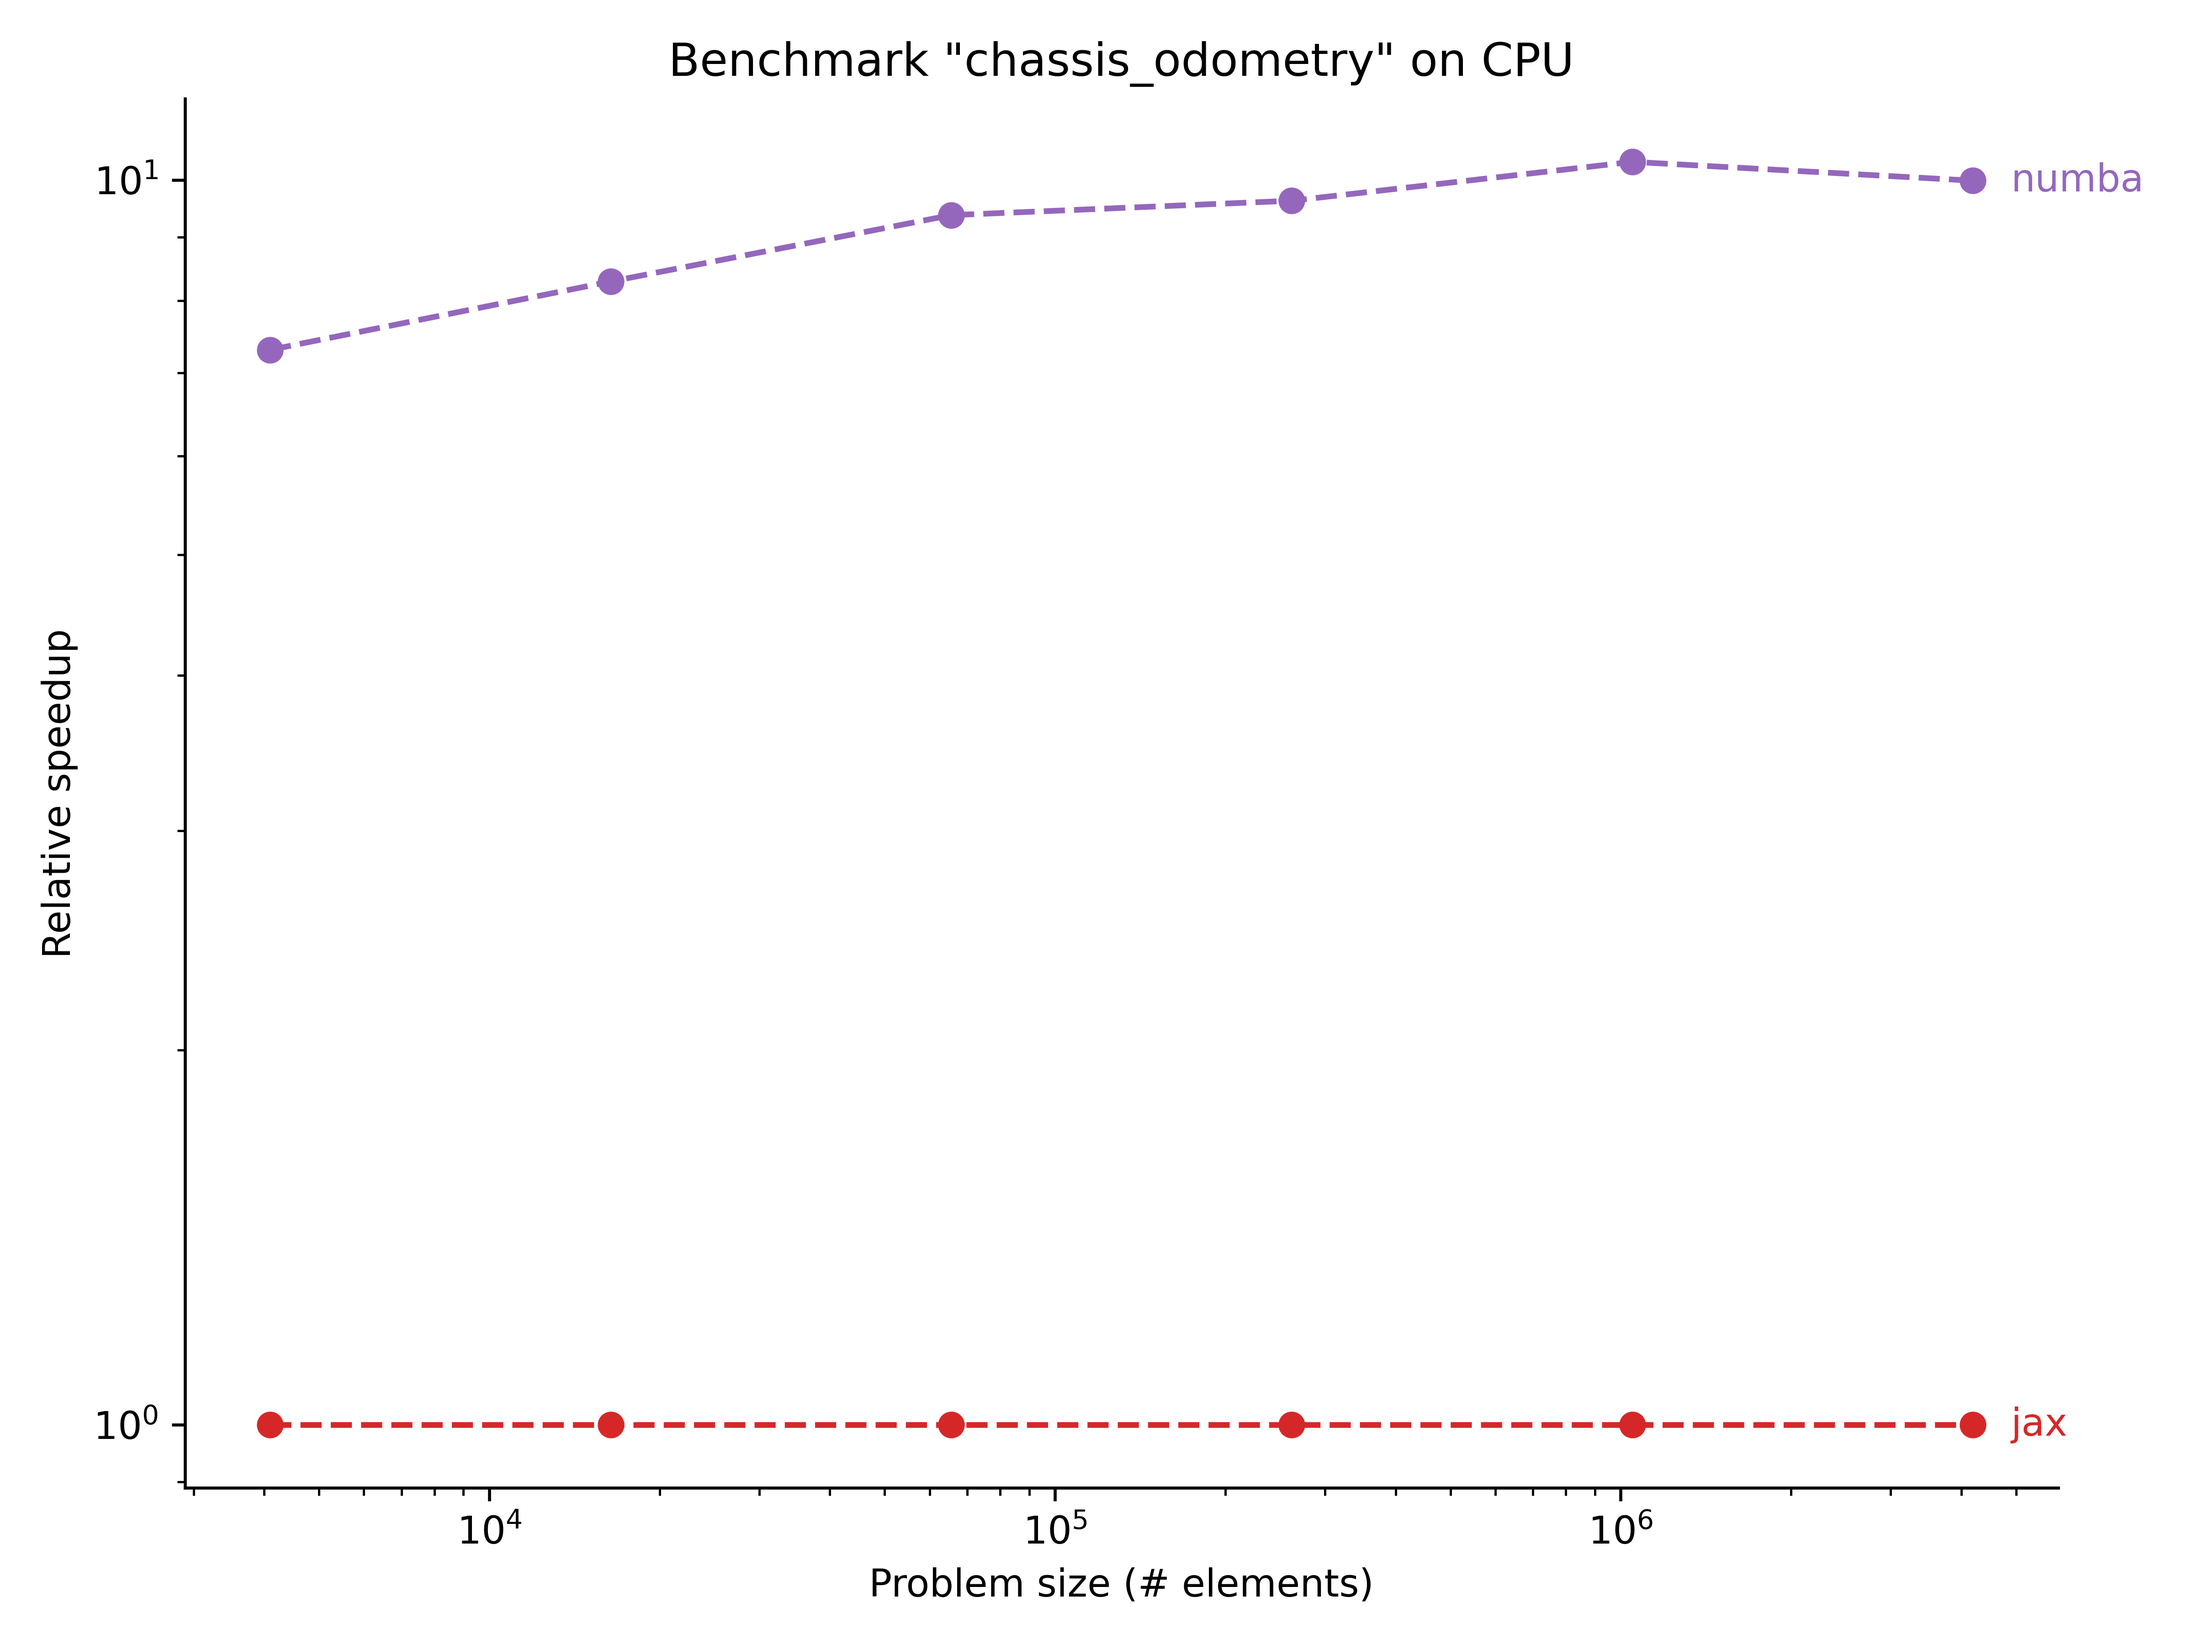
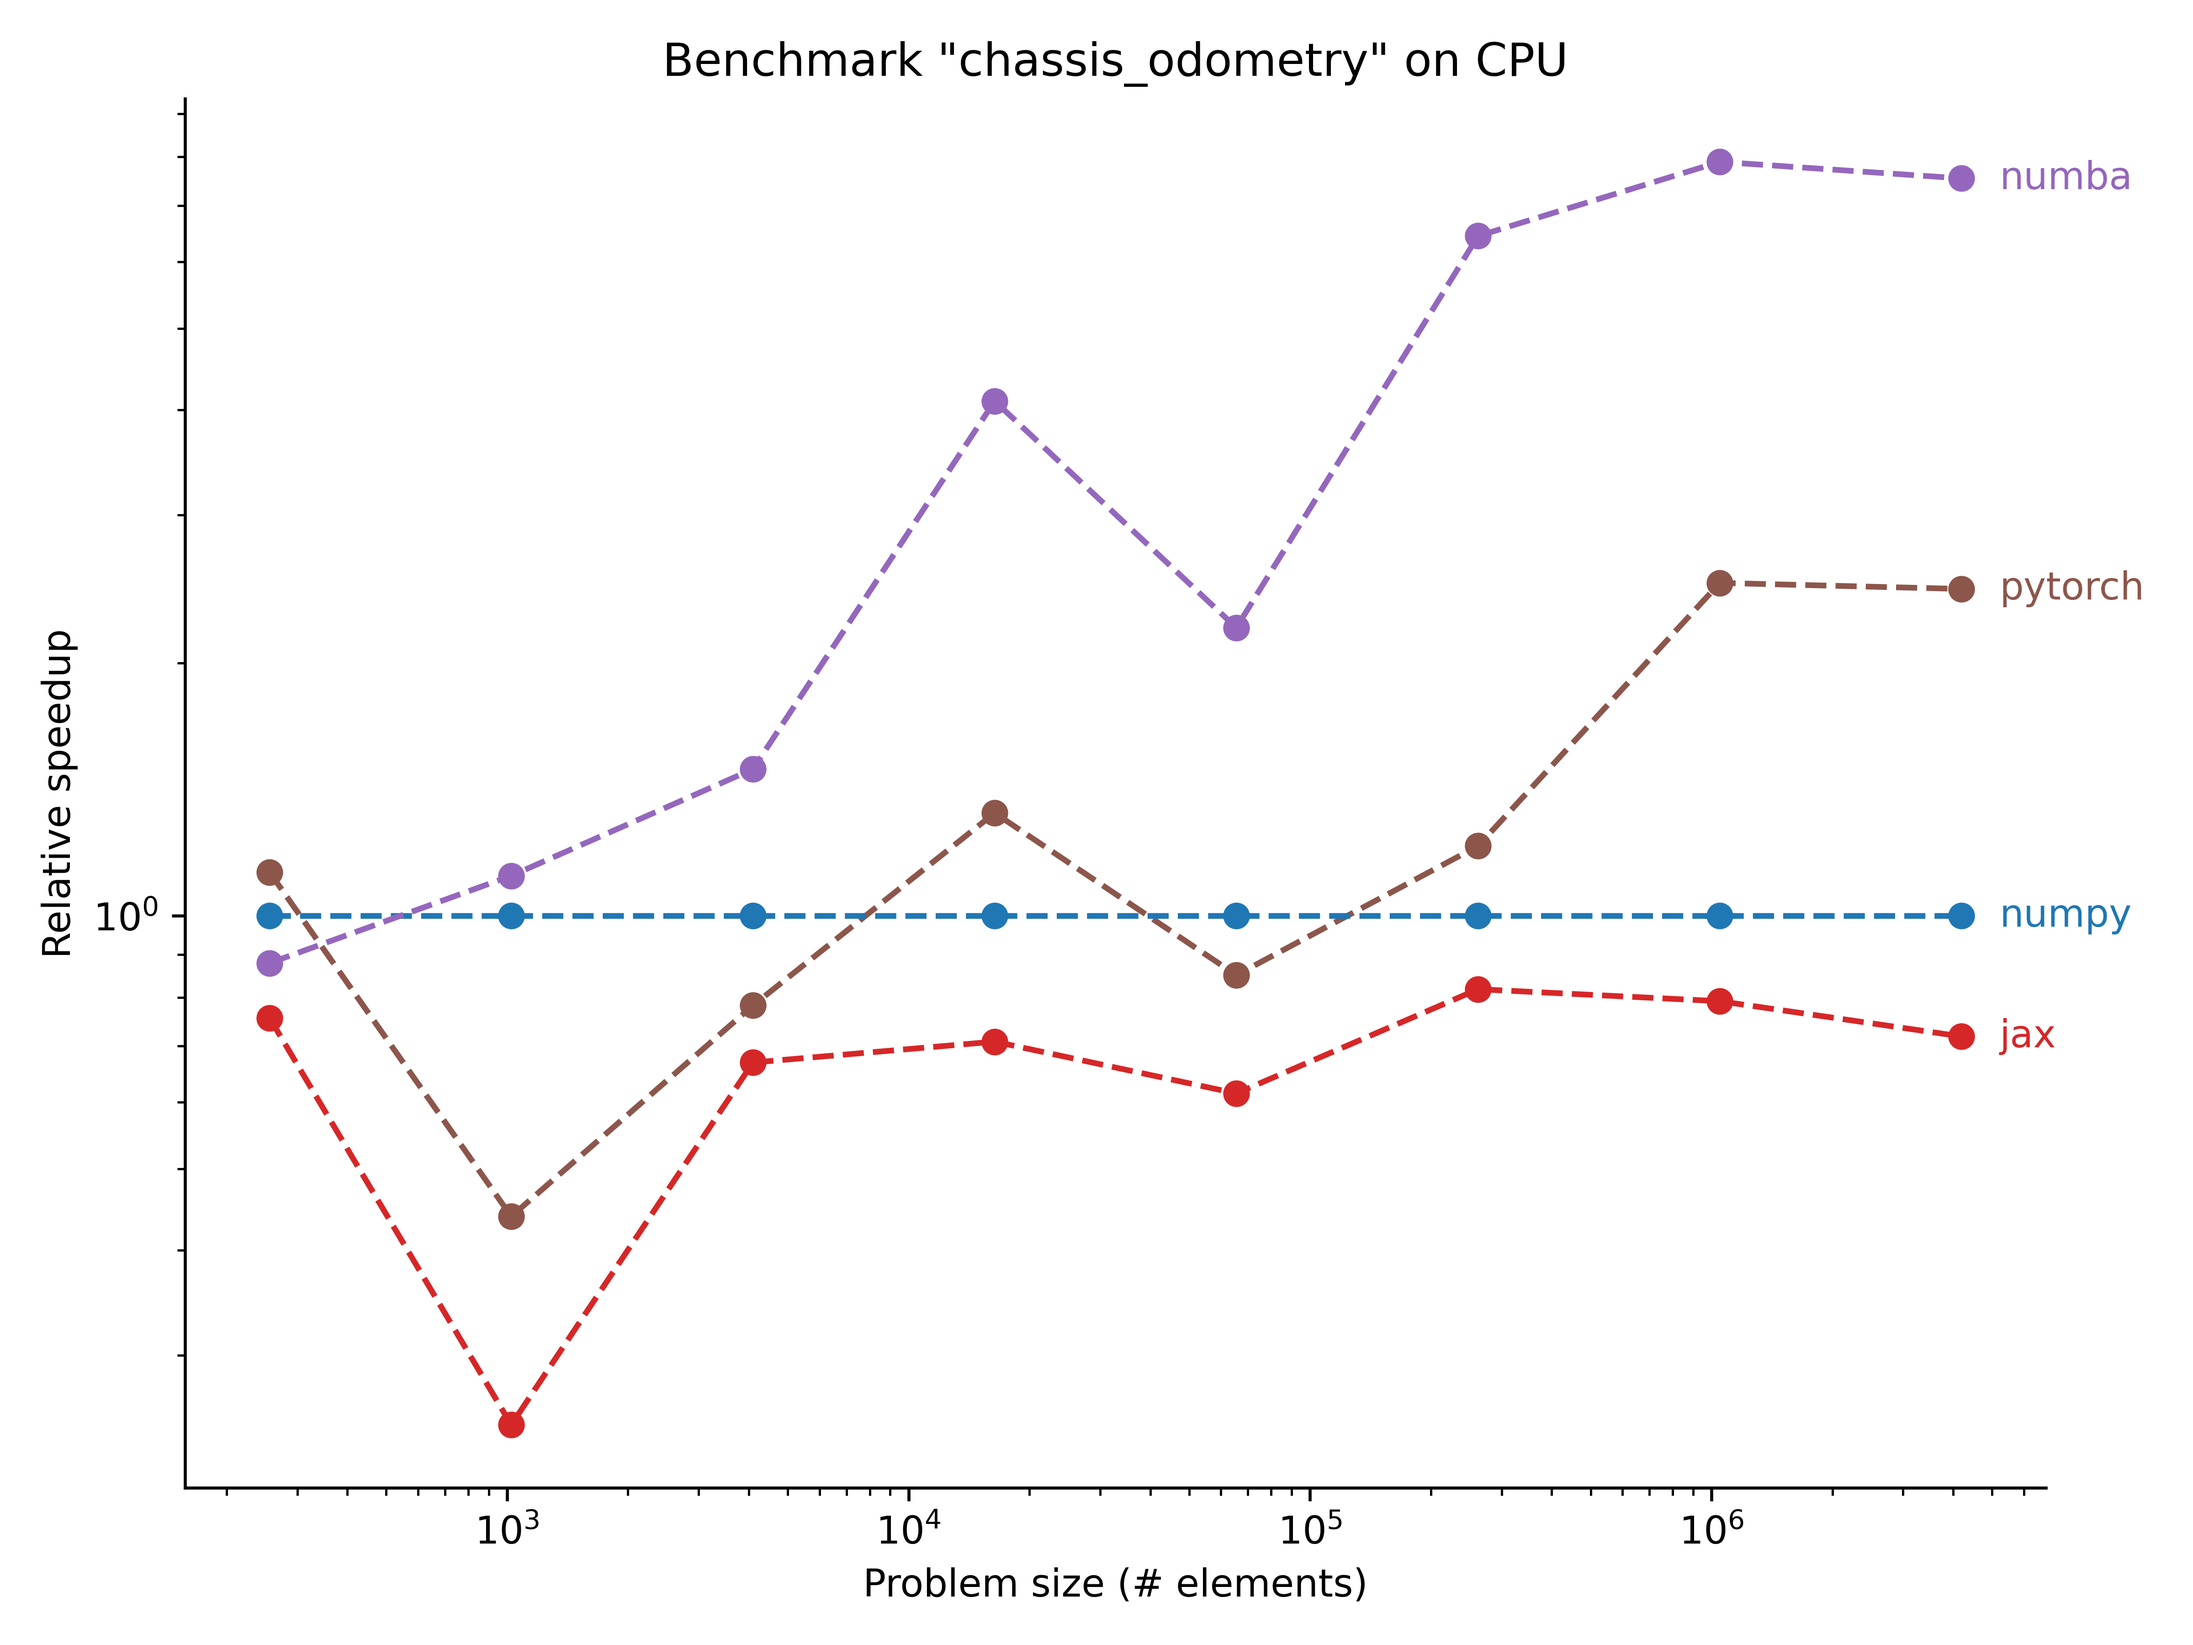
It ran the full benchmark for chasis sodom

diff --git a/benchmarks/chassis_odometry/chassis_odometry_jax.py b/benchmarks/chassis_odometry/chassis_odometry_jax.py
@@ -1,5 +1,5 @@
 import jax
-import jax.numpy as np
+import jax.numpy as jnp
 
 # Constants for indexing
 X = 0
@@ -8,47 +8,41 @@ Y = 1
 
 @jax.jit
 def chassis_odom_update(
-    particles: np.ndarray,
-    odometry: np.ndarray,
-    noise: np.ndarray,
+    particles: jnp.ndarray,
+    odometry: jnp.ndarray,
+    noise_std: jnp.ndarray,
     max_height: float,
     max_width: float,
     key: jax.random.PRNGKey,
-) -> np.ndarray:
-    N = particles.shape[0]
+) -> jnp.ndarray:
+    # Split key only once
+    key, subkey = jax.random.split(key)
     
-    x_delta = odometry[0]
-    y_delta = odometry[1]
-    x_std = noise[0]
-    y_std = noise[1]
-    
-    # Generate noise for all particles at once
-    key_x, key_y = jax.random.split(key)
-    random_noise_x = jax.random.normal(key_x, shape=(N,)) * x_std
-    random_noise_y = jax.random.normal(key_y, shape=(N,)) * y_std
-    
-    # Vectorized update
-    new_particles = particles.at[:, X].add(x_delta + random_noise_x)
-    new_particles = new_particles.at[:, Y].add(y_delta + random_noise_y)
-    
-    # Vectorized clipping
-    new_particles = new_particles.at[:, X].set(
-        np.clip(new_particles[:, X], 0, max_height)
-    )
-    new_particles = new_particles.at[:, Y].set(
-        np.clip(new_particles[:, Y], 0, max_width)
-    )
-    
-    return new_particles
+    # Draw 2-D Gaussian noise in one shot
+    # shape = (N,2), stds broadcast across rows
+    noise = jax.random.normal(subkey, shape=particles.shape) * noise_std
+
+    # Broadcast odometry [2] to [N,2]
+    delta = odometry  # shape (2,) will broadcast
+
+    # Single fused update + clamp
+    updated = particles + delta + noise
+
+    # Clip each column
+    # Note: jnp.clip is elementwise, but this is still one XLA fusion group
+    updated = updated.at[:, 0].set(jnp.clip(updated[:, 0], 0.0, max_height))
+    updated = updated.at[:, 1].set(jnp.clip(updated[:, 1], 0.0, max_width))
+
+    return updated
 
 
 def prepare_inputs(particles, odometry, noise, max_height, max_width, device):
     # Convert to JAX arrays
-    particles_jax = np.array(particles)
-    odometry_jax = np.array(odometry)
-    noise_jax = np.array(noise)
-    max_height_jax = np.array(max_height)
-    max_width_jax = np.array(max_width)
+    particles_jax = jnp.array(particles)
+    odometry_jax = jnp.array(odometry)
+    noise_jax = jnp.array(noise)
+    max_height_jax = jnp.array(max_height)
+    max_width_jax = jnp.array(max_width)
     
     # Create a random key for JAX
     key = jax.random.PRNGKey(42)

diff --git a/benchmarks/chassis_odometry/chassis_odometry_pytorch.py b/benchmarks/chassis_odometry/chassis_odometry_pytorch.py
@@ -1,11 +1,6 @@
 import torch
 
-# Constants for indexing
-X = 0
-Y = 1
-
-
-@torch.jit.script
+@torch.compile(backend="eager")
 def chassis_odom_update(
     particles: torch.Tensor,
     odometry: torch.Tensor,
@@ -13,27 +8,27 @@ def chassis_odom_update(
     max_height: float,
     max_width: float,
 ) -> torch.Tensor:
+    X = 0
+    Y = 1
+
+    # Extract deltas and noise std
+    x_delta, y_delta = odometry[X], odometry[Y]
+    x_std, y_std = noise[X], noise[Y]
     N = particles.shape[0]
-    
-    x_delta = odometry[0]
-    y_delta = odometry[1]
-    x_std = noise[0]
-    y_std = noise[1]
-    
-    # Generate noise for all particles at once
-    random_noise_x = torch.normal(torch.zeros(N, device=particles.device), x_std)
-    random_noise_y = torch.normal(torch.zeros(N, device=particles.device), y_std)
-    
-    # Vectorized update
-    new_particles = particles.clone()
-    new_particles[:, 0] += x_delta + random_noise_x
-    new_particles[:, 1] += y_delta + random_noise_y
-    
-    # Vectorized clipping
-    new_particles[:, 0] = torch.clamp(new_particles[:, 0], 0, max_height)
-    new_particles[:, 1] = torch.clamp(new_particles[:, 1], 0, max_width)
-    
-    return new_particles
+
+    # Generate noise directly on device
+    noise_x = torch.normal(0.0, x_std, size=(N,), device=particles.device)
+    noise_y = torch.normal(0.0, y_std, size=(N,), device=particles.device)
+
+    # In-place update of particles
+    particles[:, X] += x_delta + noise_x
+    particles[:, Y] += y_delta + noise_y
+
+    # In-place clamping to bounds
+    particles[:, X].clamp_(0.0, max_height)
+    particles[:, Y].clamp_(0.0, max_width)
+
+    return particles
 
 
 def prepare_inputs(particles, odometry, noise, max_height, max_width, device):

diff --git a/run.py b/run.py
@@ -27,7 +27,7 @@ from utilities import (
 )
 
 
-DEFAULT_SIZE = tuple(2 ** i for i in range(12, 23, 2))
+DEFAULT_SIZE = tuple(2 ** i for i in range(8, 23, 2))
 
 
 @click.command("run")
